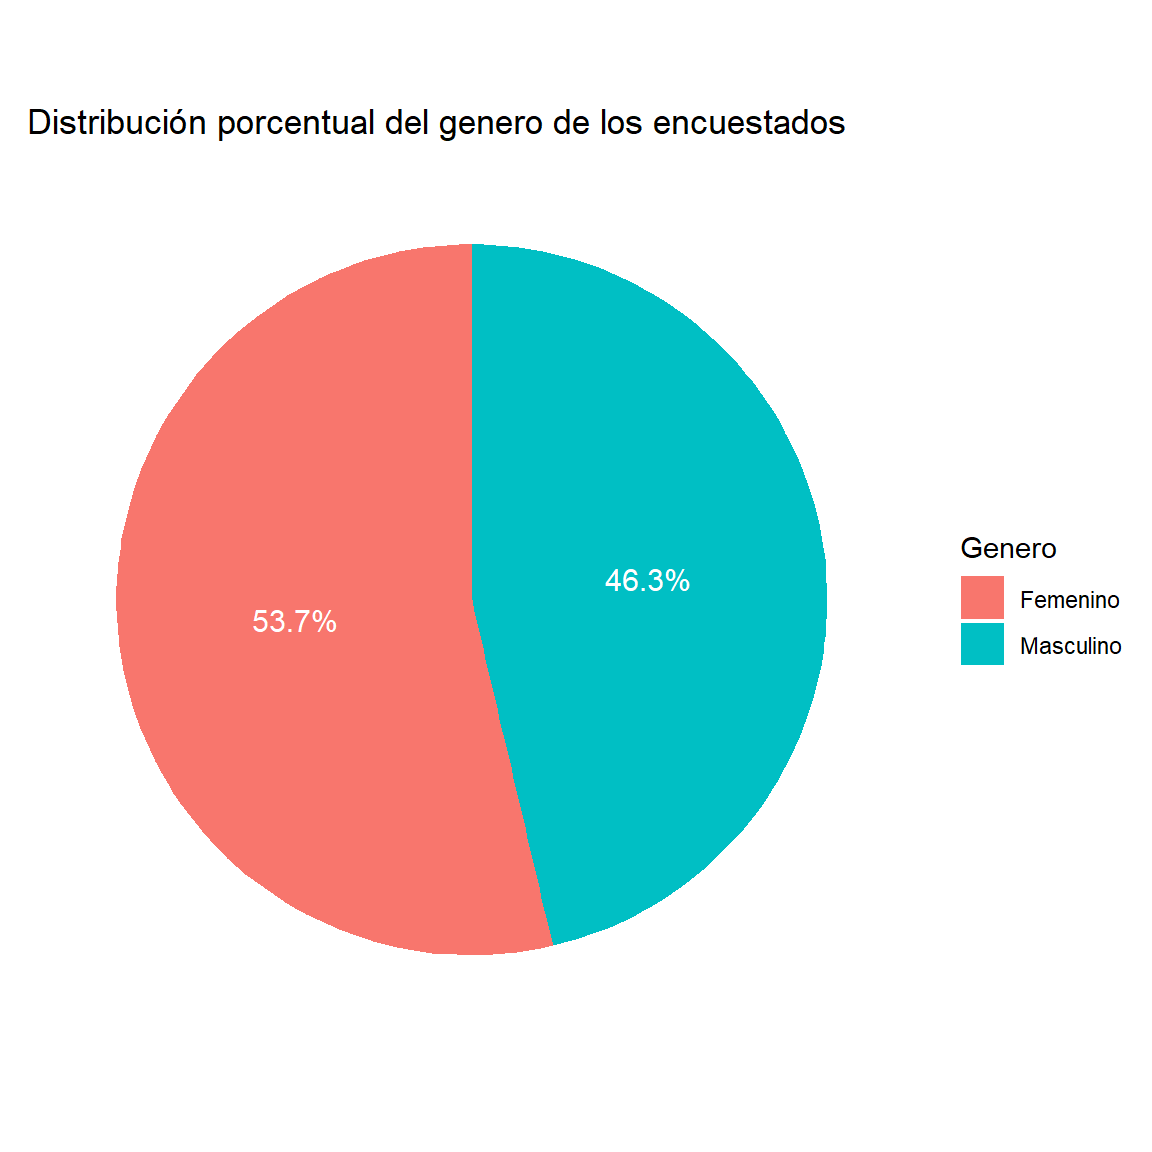
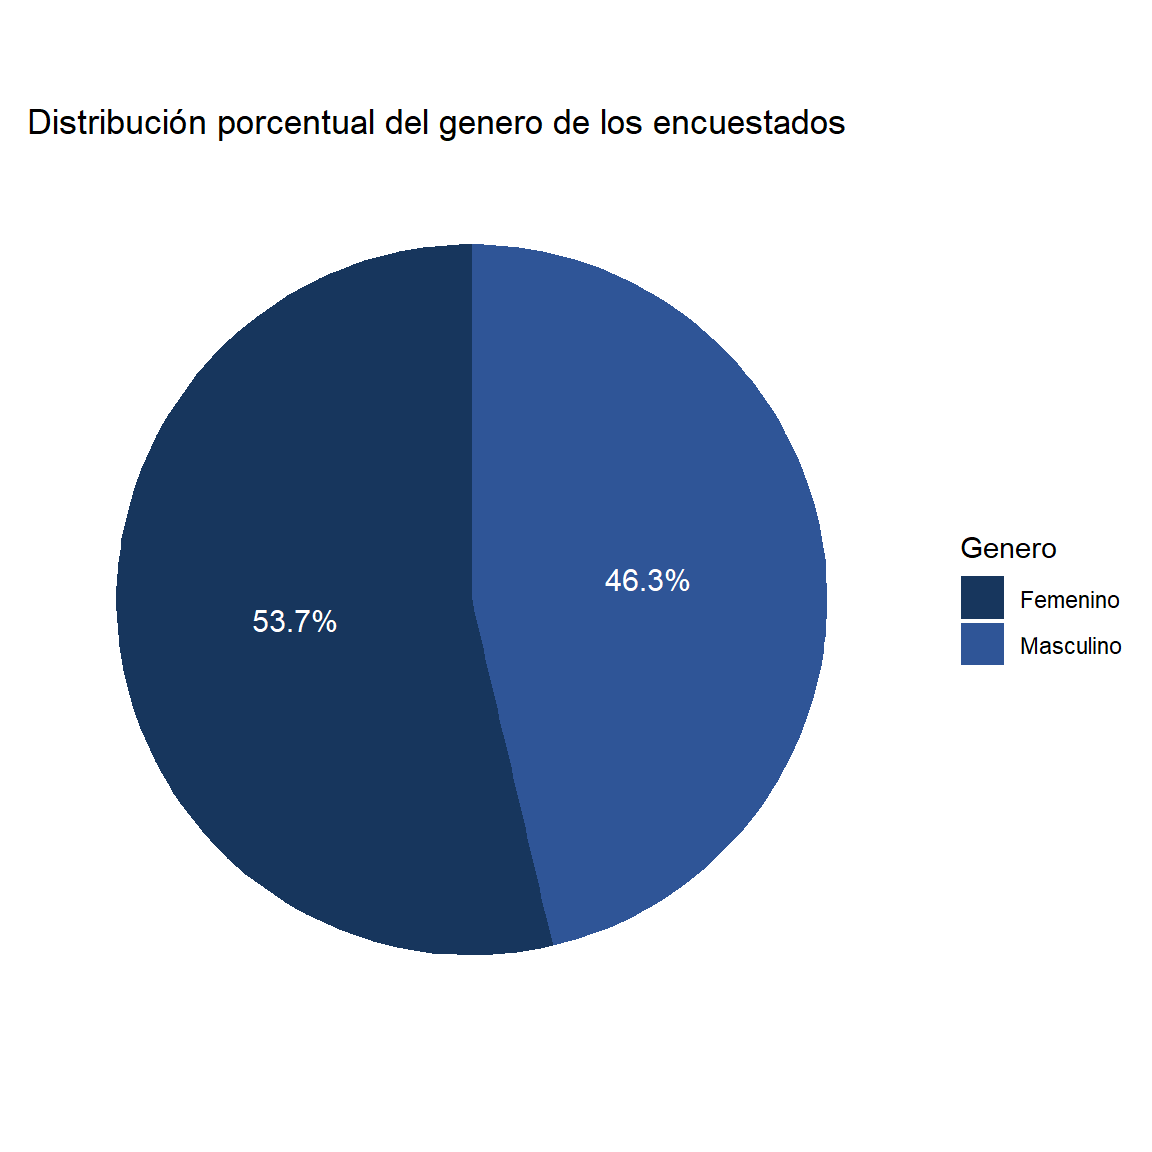
Arreglando errores

diff --git a/index.html b/index.html
@@ -246,26 +246,29 @@ body {
   line-height: 1.7;
 }
 
-/* ===== ENCABEZADO PRINCIPAL ===== */
+/* ===== FORZAR ENCABEZADO PRINCIPAL ===== */
 #title-block-header {
-  background-color: #17365D;
-  color: #FFFFFF;
-  padding: 35px 30px;
-  border-radius: 0 0 8px 8px;
-  margin-bottom: 25px;
+  background-color: #17365D !important;
+  color: #FFFFFF !important;
+  padding: 35px 30px !important;
+  border-radius: 0 0 8px 8px !important;
+  margin-bottom: 25px !important;
 }
 
-#title-block-header .quarto-title h1,
-#title-block-header .subtitle {
-  color: #FFFFFF !important;
-}
-
-/* Metadatos visibles y sin recuadros internos */
-#title-block-header .quarto-title-meta,
-#title-block-header .quarto-title-meta-heading,
-#title-block-header .quarto-title-meta-contents {
-  color: #FFFFFF !important;
+/* Forzar que cualquier contenedor interno sea transparente y no blanco */
+#title-block-header .quarto-title-block,
+#title-block-header .quarto-title,
+#title-block-header div {
   background: transparent !important;
+  background-color: transparent !important;
+}
+
+/* Forzar color blanco en el título y subtítulo */
+#title-block-header h1, 
+#title-block-header .title, 
+#title-block-header .subtitle,
+#title-block-header .quarto-title h1 {
+  color: #FFFFFF !important;
 }
 
 /* ===== TÍTULOS Y TEXTO ===== */
@@ -361,12 +364,6 @@ table tbody tr:nth-child(even) {
     grid-template-columns: 1fr;
   }
 }
-kableExtra::kable_styling(
-  bootstrap_options = c("striped", "hover", "condensed"),
-  full_width = FALSE,
-  position = "center",
-  font_size = 14
-)
 
 /* ===== TEXTO GENERAL ===== */
 body {
@@ -605,6 +602,35 @@ caption {
   font-weight: 700;
   text-align: center;
   padding: 12px;
+}
+/* ===== SOLUCIÓN DEFINITIVA PARA EL BANNER ===== */
+
+/* 1. Ocultamos el contenedor automático con fallos de Quarto si es necesario, 
+   o le forzamos el color azul de fondo y texto blanco por completo */
+#title-block-header {
+  background-color: #17365D !important;
+  background: #17365D !important;
+  color: #FFFFFF !important;
+  padding: 40px 30px !important;
+  border-radius: 0 0 8px 8px !important;
+  margin-bottom: 25px !important;
+}
+
+/* 2. Forzamos que cualquier caja interna en blanco se vuelva transparente */
+#title-block-header .quarto-title-block,
+#title-block-header .quarto-title,
+#title-block-header .quarto-title-meta,
+#title-block-header div {
+  background: transparent !important;
+  background-color: transparent !important;
+}
+
+/* 3. Aseguramos que el título y subtítulo sean blancos y visibles */
+#title-block-header h1.title,
+#title-block-header .quarto-title h1,
+#title-block-header .subtitle {
+  color: #FFFFFF !important;
+  background: transparent !important;
 }
 
 </style>
@@ -964,18 +990,21 @@ Nota
 <span id="cb17-12"><a href="#cb17-12" aria-hidden="true" tabindex="-1"></a></span>
 <span id="cb17-13"><a href="#cb17-13" aria-hidden="true" tabindex="-1"></a><span class="co"># Crear el diagrama circular</span></span>
 <span id="cb17-14"><a href="#cb17-14" aria-hidden="true" tabindex="-1"></a><span class="fu">ggplot</span>(genero_counts, <span class="fu">aes</span>(<span class="at">x =</span> <span class="st">""</span>, <span class="at">y =</span> porcentaje, <span class="at">fill =</span> Genero)) <span class="sc">+</span></span>
-<span id="cb17-15"><a href="#cb17-15" aria-hidden="true" tabindex="-1"></a>  <span class="fu">geom_bar</span>(<span class="at">stat =</span> <span class="st">"identity"</span>, <span class="at">width =</span> <span class="dv">1</span>) <span class="sc">+</span></span>
-<span id="cb17-16"><a href="#cb17-16" aria-hidden="true" tabindex="-1"></a>  <span class="fu">coord_polar</span>(<span class="st">"y"</span>) <span class="sc">+</span></span>
-<span id="cb17-17"><a href="#cb17-17" aria-hidden="true" tabindex="-1"></a>  <span class="fu">labs</span>(<span class="at">title =</span> <span class="st">"Distribución porcentual del genero de los encuestados"</span>) <span class="sc">+</span></span>
-<span id="cb17-18"><a href="#cb17-18" aria-hidden="true" tabindex="-1"></a>  <span class="fu">theme_minimal</span>() <span class="sc">+</span></span>
-<span id="cb17-19"><a href="#cb17-19" aria-hidden="true" tabindex="-1"></a>  <span class="fu">theme</span>(<span class="at">axis.title.x =</span> <span class="fu">element_blank</span>(),</span>
-<span id="cb17-20"><a href="#cb17-20" aria-hidden="true" tabindex="-1"></a>        <span class="at">axis.title.y =</span> <span class="fu">element_blank</span>(),</span>
-<span id="cb17-21"><a href="#cb17-21" aria-hidden="true" tabindex="-1"></a>        <span class="at">panel.grid =</span> <span class="fu">element_blank</span>(),</span>
-<span id="cb17-22"><a href="#cb17-22" aria-hidden="true" tabindex="-1"></a>        <span class="at">axis.text.x =</span> <span class="fu">element_blank</span>()) <span class="sc">+</span></span>
-<span id="cb17-23"><a href="#cb17-23" aria-hidden="true" tabindex="-1"></a>  <span class="fu">geom_text</span>(<span class="fu">aes</span>(<span class="at">label =</span> <span class="fu">sprintf</span>(<span class="st">"%.1f%%"</span>, porcentaje)), </span>
-<span id="cb17-24"><a href="#cb17-24" aria-hidden="true" tabindex="-1"></a>            <span class="at">position =</span> <span class="fu">position_stack</span>(<span class="at">vjust =</span> <span class="fl">0.5</span>), </span>
-<span id="cb17-25"><a href="#cb17-25" aria-hidden="true" tabindex="-1"></a>            <span class="at">color =</span> <span class="st">"white"</span>, </span>
-<span id="cb17-26"><a href="#cb17-26" aria-hidden="true" tabindex="-1"></a>            <span class="at">size =</span> <span class="dv">4</span>)</span></code></pre></div><button title="Copiar al portapapeles" class="code-copy-button"><i class="bi"></i></button></div>
+<span id="cb17-15"><a href="#cb17-15" aria-hidden="true" tabindex="-1"></a>  <span class="fu">scale_fill_manual</span>(</span>
+<span id="cb17-16"><a href="#cb17-16" aria-hidden="true" tabindex="-1"></a>  <span class="at">values =</span> paleta_categorias</span>
+<span id="cb17-17"><a href="#cb17-17" aria-hidden="true" tabindex="-1"></a>) <span class="sc">+</span></span>
+<span id="cb17-18"><a href="#cb17-18" aria-hidden="true" tabindex="-1"></a>  <span class="fu">geom_bar</span>(<span class="at">stat =</span> <span class="st">"identity"</span>, <span class="at">width =</span> <span class="dv">1</span>) <span class="sc">+</span></span>
+<span id="cb17-19"><a href="#cb17-19" aria-hidden="true" tabindex="-1"></a>  <span class="fu">coord_polar</span>(<span class="st">"y"</span>) <span class="sc">+</span></span>
+<span id="cb17-20"><a href="#cb17-20" aria-hidden="true" tabindex="-1"></a>  <span class="fu">labs</span>(<span class="at">title =</span> <span class="st">"Distribución porcentual del genero de los encuestados"</span>) <span class="sc">+</span></span>
+<span id="cb17-21"><a href="#cb17-21" aria-hidden="true" tabindex="-1"></a>  <span class="fu">theme_minimal</span>() <span class="sc">+</span></span>
+<span id="cb17-22"><a href="#cb17-22" aria-hidden="true" tabindex="-1"></a>  <span class="fu">theme</span>(<span class="at">axis.title.x =</span> <span class="fu">element_blank</span>(),</span>
+<span id="cb17-23"><a href="#cb17-23" aria-hidden="true" tabindex="-1"></a>        <span class="at">axis.title.y =</span> <span class="fu">element_blank</span>(),</span>
+<span id="cb17-24"><a href="#cb17-24" aria-hidden="true" tabindex="-1"></a>        <span class="at">panel.grid =</span> <span class="fu">element_blank</span>(),</span>
+<span id="cb17-25"><a href="#cb17-25" aria-hidden="true" tabindex="-1"></a>        <span class="at">axis.text.x =</span> <span class="fu">element_blank</span>()) <span class="sc">+</span></span>
+<span id="cb17-26"><a href="#cb17-26" aria-hidden="true" tabindex="-1"></a>  <span class="fu">geom_text</span>(<span class="fu">aes</span>(<span class="at">label =</span> <span class="fu">sprintf</span>(<span class="st">"%.1f%%"</span>, porcentaje)), </span>
+<span id="cb17-27"><a href="#cb17-27" aria-hidden="true" tabindex="-1"></a>            <span class="at">position =</span> <span class="fu">position_stack</span>(<span class="at">vjust =</span> <span class="fl">0.5</span>), </span>
+<span id="cb17-28"><a href="#cb17-28" aria-hidden="true" tabindex="-1"></a>            <span class="at">color =</span> <span class="st">"white"</span>, </span>
+<span id="cb17-29"><a href="#cb17-29" aria-hidden="true" tabindex="-1"></a>            <span class="at">size =</span> <span class="dv">4</span>)</span></code></pre></div><button title="Copiar al portapapeles" class="code-copy-button"><i class="bi"></i></button></div>
 </details>
 <div class="cell-output-display">
 <div class="quarto-figure quarto-figure-center">
